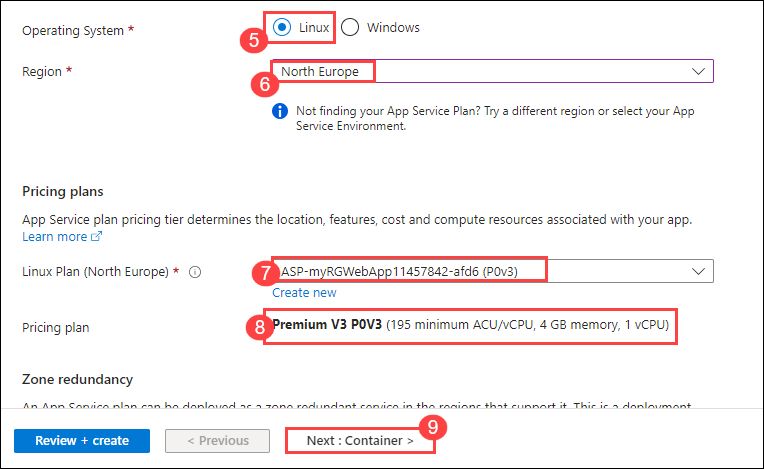
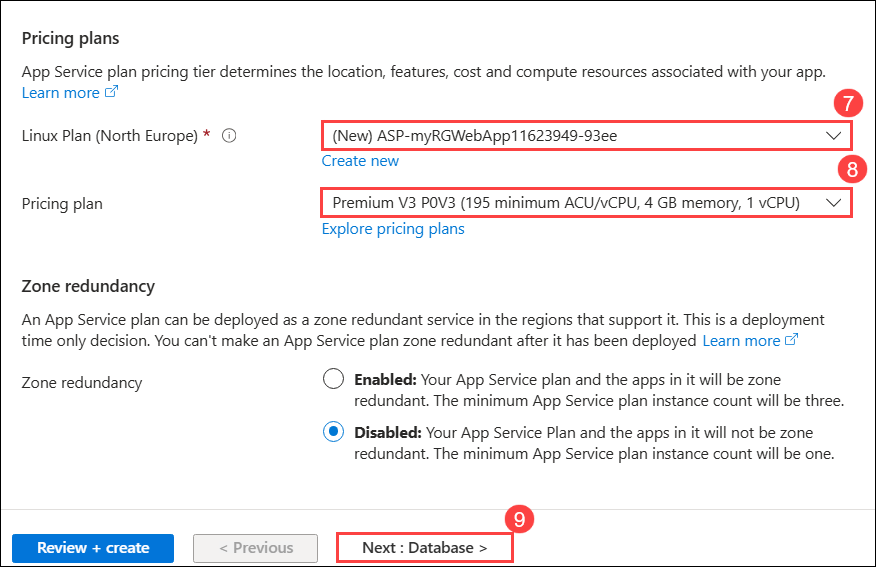
Updated

diff --git a/Instructions/Labs/02-Create a Web App.md b/Instructions/Labs/02-Create a Web App.md
@@ -31,7 +31,7 @@ In this task, you will create an Azure App Service Web App.
 
    ![](../images/lab2-image2.png) 
 
-1. On the **Basics** tab of the **Create Web App** blade, specify the following and click **Next : Container > (9)**.
+1. On the **Basics** tab of the **Create Web App** blade, specify the following and Click **Next : Database (9)>**:
  
     | Setting | Value |
     | -- | -- |
@@ -41,25 +41,37 @@ In this task, you will create an Azure App Service Web App.
     | Publish | **Container (4)** |
     | Operating System | **Linux (5)** |
     | Region | **<inject key="Region" enableCopy="false"/>** **(6)** (ignore any service plan availability warnings) |
+    |||
+
+     ![](../images/webapp.png)
+
+    | Setting | Value |
+    | -- | -- |
     | Linux Plan | **Pre Populated (7)** |
     | Pricing Plan | **Premium V3 POV3 (8)** |
     |||
 
-    ![](../images/webapp.png)
-
     ![](../images/az900lo2sri.png)
 
-1. On **Container** tab specify the following to configure the container information. The startup command is optional and not needed in this exercise and click **Review + create (5)**.
+1. Keep everything unchanged and click **Next: Container >**.
+
+    ![](../images/container.png)
+
+1. On **Container** tab specify the following to configure the container information. The startup command is optional and not needed in this exercise and click **Review + create (3)**.
 
     | Setting | Value |
     | -- | -- |
-    | Image Source | **Quickstart** |
-    | Sample | **NGINX** |
+    | Image Source | **Quickstart (1)** |
+    | Sample | **NGINX (2)** |
     |||
+
+     ![](../images/web-1.png)
 
      >**Note:** This is same container that was used in the Container Instances walkthrough to display a hello world message.
 
-1. Once validation is passed click **Create**.
+1. Once the validation passes, click **Create**.
+
+    ![](../images/web-2.png)
 
 ### Task 2: Test the Web App
 
@@ -69,22 +81,22 @@ In this task, we will test the web app.
 
    ![](../images/lab2-image5.png)
 
-1. On the **Overview** blade, locate  the **Default Domain** entry.
+1. On the **Overview** blade, find the **Default Domain** entry.
 
      ![](../images/lab2-image6.png)
 
-1. Copy the URL and paste it into a new browser tab to observe the page.
+1. Copy the URL and paste it into a new browser tab to view the page.
 
     ![](images/linux-webapp.png)
 
-1. Switch back to the **Overview** blade of your web app and select **Monitoring** tab note that it includes several charts. If you repeat step 4 a few times, you should be able to see corresponding telemetry being displayed in the charts. This includes number of requests and average response time.
-
-<validation step="4e49a9a7-41fd-406c-84a6-1c9b821b0217" />
+1. Switch back to the **Overview** blade of your web app and select the **Monitoring** tab. Note that it includes several charts. If you repeat step 4 a few times, you should see corresponding telemetry displayed in the charts, including the number of requests and the average response time.
 
 > **Congratulations** on completing the task! Now, it's time to validate it. Here are the steps:
 > - Hit the Validate button for the corresponding task. If you receive a success message, you have successfully completed the task. 
 > - If not, carefully read the error message and retry the step, following the instructions in the lab guide.
 > - If you need any assistance, please contact us at labs-support@spektrasystems.com. We are available 24/7 to help
+
+<validation step="4e49a9a7-41fd-406c-84a6-1c9b821b0217" />
 
 ### Review
 In this lab, you have completed:
